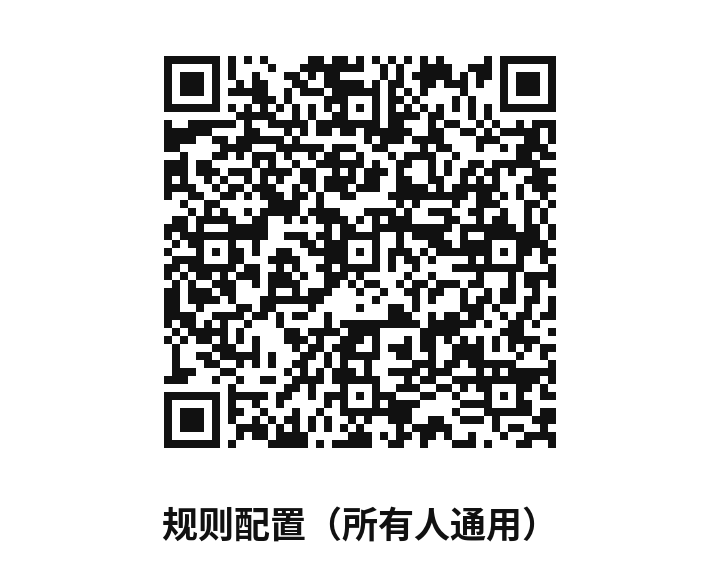
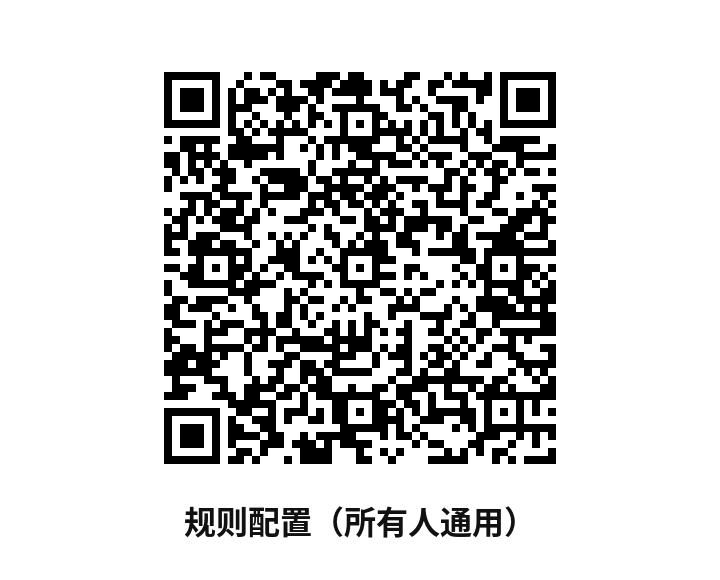
Point docs and rules QR at company-vpn; require TUN on Mac.
Update repo and jsDelivr links after the rename, regenerate the
credential-free Shadowrocket rules QR, and make 虚拟网卡模式 a
required step in the Mac guides.

Changed region(s): [[0.2139, 0.0931, 0.7944, 0.8069], [0.4583, 0.869, 0.7639, 0.931], [0.2139, 0.869, 0.4278, 0.931]]

diff --git a/README.md b/README.md
@@ -9,13 +9,13 @@
 
 把仓库和私人文件合在一起，就可以在 Mac 和 iPhone 上完成设置。
 
-仓库地址：https://github.com/ikennychoi/company-shadowrocket-rules
+仓库地址：https://github.com/ikennychoi/company-vpn
 
 ## 使用前请先确认
 
 1. 已经从 Kenny 那里拿到**只属于你自己**的节点二维码或 Clash 配置，编号（如 user01）没有拿错。
 2. 手机已安装 [Shadowrocket](https://apps.apple.com/app/shadowrocket/id932747118)（App Store，付费应用）。
-3. Mac 准备安装 Clash Verge Rev（免费，见下方教程）。
+3. Mac 准备安装 Clash Verge Rev（免费，见下方教程）。安装后必须先完成系统服务 /「授权」，再打开「虚拟网卡模式」（TUN）。
 4. 同一台电脑上不要同时开两个系统代理或两个虚拟网卡（例如 Clash Verge 和 ClashX 不要一起接管网络）。
 
 ## 快速开始
@@ -31,9 +31,11 @@
 
 ### 在 Mac 上
 
-1. 安装 Clash Verge Rev，并安装系统服务。见：[mac/安装 Clash Verge.md](mac/安装%20Clash%20Verge.md)
-2. 导入 Kenny 发给你的个人 yaml，打开「虚拟网卡模式」。见：[mac/导入配置与使用.md](mac/导入配置与使用.md)
-3. 用下面的方法确认已经走通。
+1. 安装 Clash Verge Rev，并先安装系统服务（或在内核旁点「授权」）。见：[mac/安装 Clash Verge.md](mac/安装%20Clash%20Verge.md)
+2. 导入 Kenny 发给你的个人 yaml，并在列表里选中它。见：[mac/导入配置与使用.md](mac/导入配置与使用.md)
+3. **必须打开「虚拟网卡模式」（TUN）**。打开前先完成上一步的系统服务 / 授权。「系统代理」可以关掉，不是必需的。
+   打开 TUN 后，浏览器、其他 App 和终端都会走代理，不必再手动设置 `http_proxy`。
+4. 用下面的方法确认已经走通（请包含终端里的 `curl` 检查）。
 
 仓库里的 `mac/clash-verge-template.yaml` 只是模板，一般**不用自己改**。日常请直接用 Kenny 发给你的那份个人配置。
 
@@ -49,11 +51,11 @@
 - 打开 https://www.google.com 或常用的国外网站，应能打开。  
 - 打开百度等国内网站，应仍然正常（走直连）。  
 - 用 ippure.com 等查 IP，应显示国外出口，而不是你所在的国内城市。  
-- 终端里不需要再手动设置 `http_proxy`。若已打开虚拟网卡，`curl -I https://www.google.com` 一般也能通。
+- 终端里不需要再手动设置 `http_proxy`。打开「虚拟网卡模式」后，执行 `curl -I --max-time 15 https://www.google.com` 应能返回 HTTP 头。这是确认 TUN 已生效的方法。
 
 **连不上怎么办？**  
 1. 确认用的是自己的配置，没有拿错别人的编号。  
-2. Mac：在「订阅」里已经点选了刚导入的配置；已打开「虚拟网卡模式」或「系统代理」（推荐前者）；没有同时开着别的代理。  
+2. Mac：在「订阅」里已经点选了刚导入的配置；系统服务已安装；「虚拟网卡模式」已打开；没有同时开着别的代理。「系统代理」不是必需的，可保持关闭。  
 3. iPhone：首页已选中刚扫码添加的节点，「配置」里已点「使用配置」，全局路由为「配置」。  
 4. 检查手机或电脑时间是否自动同步。时间不准会导致握手失败。  
 5. 仍不行时，把现象发给 Kenny（不要把二维码、yaml 或节点链接发到公开群）。

diff --git a/mac/导入配置与使用.md b/mac/导入配置与使用.md
@@ -17,32 +17,36 @@
 导入后，在列表里**点一下**刚刚出现的配置，确认它处于选中状态。  
 请新建一份配置，不要覆盖你原来的配置，也不要删除旧节点。
 
-## 2. 打开虚拟网卡（推荐）
+## 2. 必须打开虚拟网卡模式（TUN）
 
-Kenny 这边使用的是「虚拟网卡模式」（TUN）。它能接管终端、部分不走系统代理的软件（例如一些命令行工具），更省事。
+这一步是必做的，不是可选项。
 
-1. 确认已经安装好系统服务（见上一篇）。
+「虚拟网卡模式」（TUN）会接管本机几乎所有程序的网络，包括浏览器、其他 App 和终端。只开「系统代理」时，很多软件（尤其是终端和部分桌面应用）仍会直连，看起来就像没生效。
+
+请按顺序做：
+
+1. 先安装系统服务，或在 Clash 内核旁点 ⚙「授权」（见上一篇）。没有这一步，TUN 通常开不了。
 2. 打开「虚拟网卡模式」。
 3. 规则模式保持为「规则」。
+4. 「系统代理」可以关掉，不是必需的。若你习惯开着，也可以开，但不替代 TUN。
 
-也可以只开「系统代理」。这时浏览器一般可以，但终端和部分 App 可能仍是直连。推荐用虚拟网卡。
-
-**不要两个一起乱开，更不要和 ClashX 或其他 VPN 同时开系统代理 / 虚拟网卡。** 用 Clash Verge 时，请先关掉其他代理软件的系统代理和增强模式。
+**不要和 ClashX 或其他 VPN 同时开系统代理或虚拟网卡。** 用 Clash Verge 时，请先关掉其他代理软件的系统代理和增强模式。
 
 ## 3. 确认已经走通
 
-1. 打开 https://www.google.com ，应能打开。
-2. 打开百度，应仍然正常（国内直连）。
-3. 打开 https://ippure.com 查 IP，应显示国外出口，而不是你所在的国内城市。
-4. 若已打开虚拟网卡，在终端执行：
+1. 确认「虚拟网卡模式」已打开。
+2. 打开 https://www.google.com ，应能打开。
+3. 打开百度，应仍然正常（国内直连）。
+4. 打开 https://ippure.com 查 IP，应显示国外出口，而不是你所在的国内城市。
+5. 在终端执行（不要先设置 `http_proxy`）：
 
    ```bash
    curl -I --max-time 15 https://www.google.com
    ```
 
-   应能返回 HTTP 头。不用再手动设置 `http_proxy`。
+   应能返回 HTTP 头。这能证明终端也走了代理，说明 TUN 已生效。
 
-如果 Google 打不开：回到「订阅」确认配置已选中；确认虚拟网卡或系统代理已打开；确认没有其他代理软件在抢网络；检查系统时间是否自动同步。
+如果 Google 打不开，或终端 `curl` 失败：回到「订阅」确认配置已选中；确认系统服务已安装且「虚拟网卡模式」已打开；确认没有其他代理软件在抢网络；检查系统时间是否自动同步。
 
 ## 4. 这套规则大致会怎么分流
 

diff --git a/mac/安装 Clash Verge.md b/mac/安装 Clash Verge.md
@@ -61,6 +61,6 @@ sudo "$APP/Contents/Resources/resources/clash-verge-service-uninstall"
 sudo "$APP/Contents/Resources/resources/clash-verge-service-install"
 ```
 
-命令执行完后重新打开 Clash Verge，再去开「虚拟网卡模式」。
+命令执行完后重新打开 Clash Verge，再去开「虚拟网卡模式」。开 TUN 是后面必做的一步，系统代理不是必需的。
 
 下一步请看：[导入配置与使用.md](导入配置与使用.md)

diff --git a/iphone/Shadowrocket 使用说明.md b/iphone/Shadowrocket 使用说明.md
@@ -7,7 +7,7 @@
 
 规则文件地址（无凭据，国内可不走代理访问）：
 
-https://cdn.jsdelivr.net/gh/ikennychoi/company-shadowrocket-rules@main/company-vpn-shadowrocket-rules.conf
+https://cdn.jsdelivr.net/gh/ikennychoi/company-vpn@main/company-vpn-shadowrocket-rules.conf
 
 也可以直接扫描下面这张通用规则二维码（与合并图右侧相同）：
 
